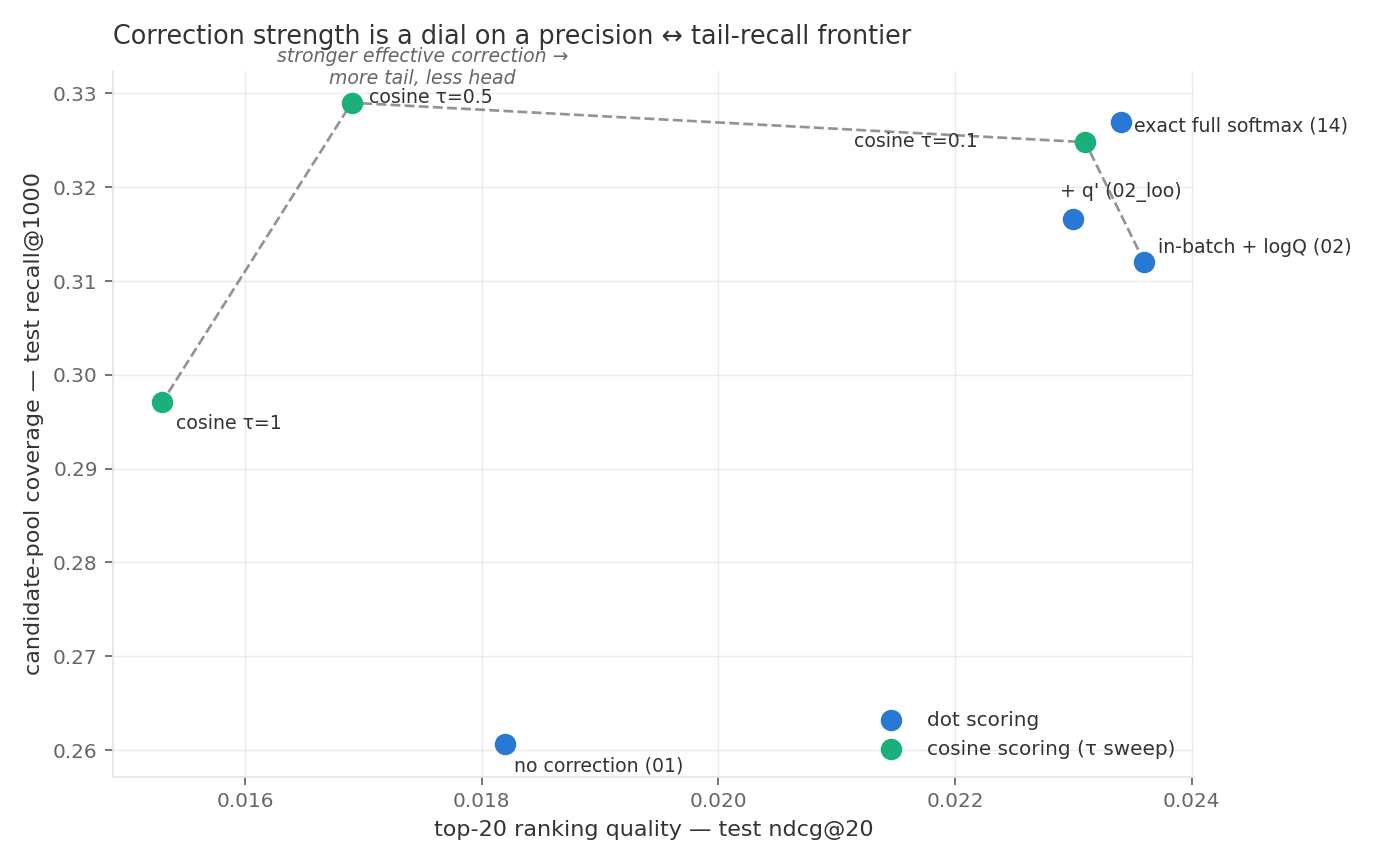
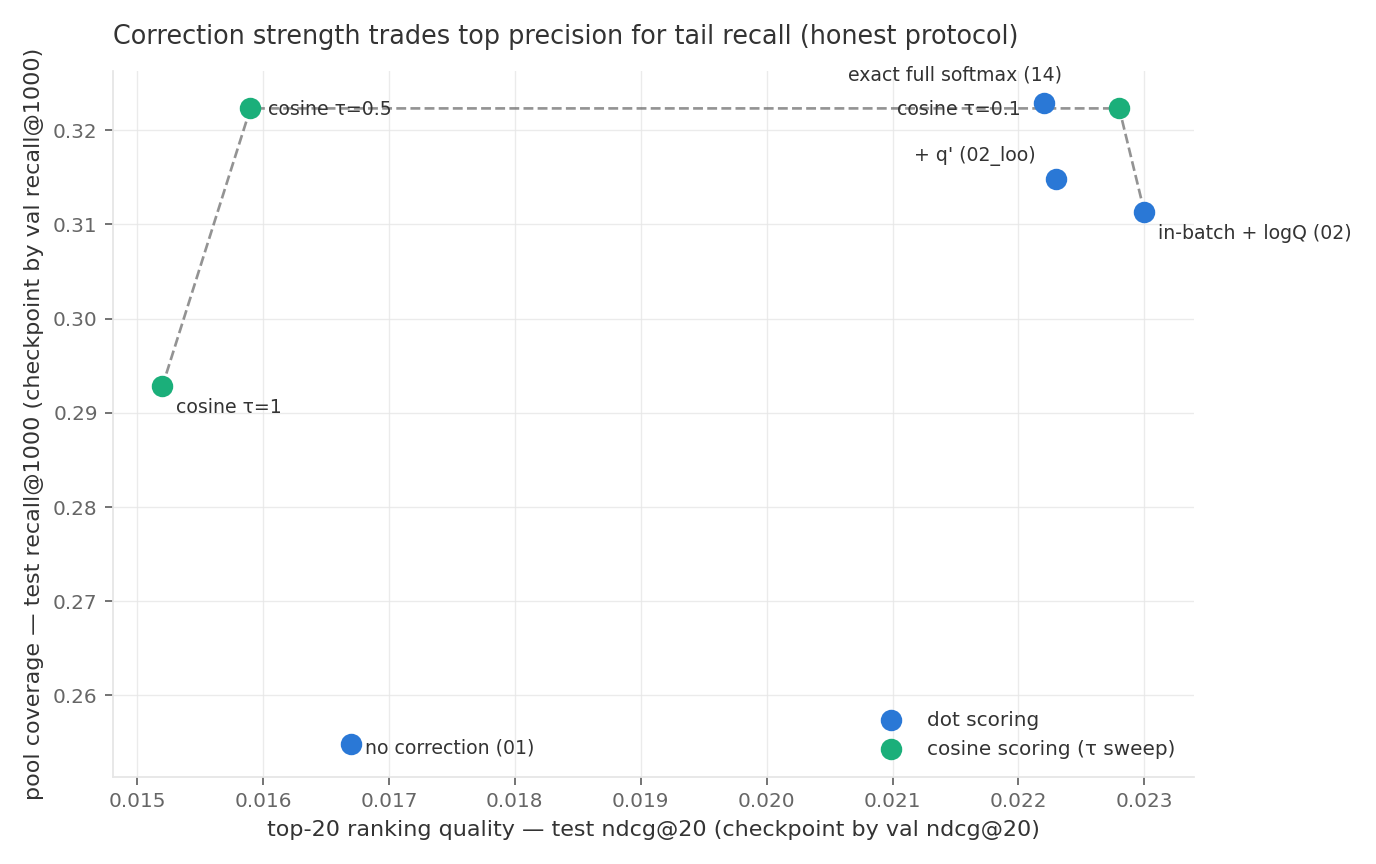
RESULTS v2: honest protocol (test at validation-best checkpoint) after external audit

diff --git a/RESULTS.md b/RESULTS.md
@@ -1,147 +1,161 @@
 # Experiment results: logQ correction study on MCLSR (Amazon Clothing)
 
-All numbers are best `ndcg@20` over training (validation / test users), single seed 42,
-same GPU node, full-catalog ranking, standard NDCG normalization (a ComiRec-style
-`comirec-ndcg` metric is available for comparison with the MCLSR paper's tables).
-Measured run-to-run noise floor: **±0.0005–0.001** — differences within it are ties.
-Configs live in `configs/train/grid/`, one question per config.
+**Protocol.** The checkpoint is selected by the *validation* metric and the test
+metric is reported **at that checkpoint** (metric-matched selection: ndcg tables
+select by validation ndcg@20, the recall@1000 table selects by validation
+recall@1000). Single seed 42, same GPU node, full-catalog ranking over disjoint
+test users (transductive user split 8:1:1, as in the MCLSR paper), standard NDCG
+normalization (`comirec-ndcg` is logged for comparison with the paper's tables).
+Run-to-run noise: **±0.001** ndcg@20 / **±0.005** recall@1000 — differences within
+it are ties. Single-seed numbers; the headline table will be re-run with 3 seeds.
+
+*(2026-07-14: all test columns recomputed under this protocol after an external
+audit correctly noted that the previous revision reported best-over-training test
+values; conclusions that changed are marked.)*
 
 ![Precision vs tail-recall frontier](assets/frontier.png)
 
-## 1. Retrieval loss (L_P): the correction works and is exact
+## 1. Retrieval loss (L_P): the correction works and matches the exact softmax
 
 | config | val | test | note |
 |---|---|---|---|
-| 01 in-batch, no correction | 0.0168 | 0.0182 | biased baseline |
-| **02 in-batch + logQ** | 0.0245 | **0.0236** | **+30%** |
-| 02 + leave-own-out q' | 0.0253 | 0.0230 | = 02 (q' is a ≤1.6e-3 row constant here) |
-| **14 exact full softmax** (no sampling) | 0.0246 | **0.0234** | gold standard |
+| 01 in-batch, no correction | 0.0168 | 0.0167 | biased baseline |
+| **02 in-batch + logQ** | 0.0245 | **0.0230** | **+38%** |
+| 02 + leave-own-out q' | 0.0253 | 0.0223 | = 02 (q' is a ≤1.6e-3 row constant here) |
+| **14 exact full softmax** (no sampling) | 0.0246 | 0.0222 | gold standard |
 
-**In-batch + logQ closes 100% of the gap to the exact full softmax** (0.0236 ≈ 0.0234).
+**In-batch + logQ is statistically indistinguishable from the exact full softmax**
+(0.0230 vs 0.0222, within noise) — the correction recovers everything sampling
+takes away at top-20.
 
 Same effect on a second architecture (SASRec, only λ changes):
 
 | config | val | test |
 |---|---|---|
-| SASRec BCE baseline | 0.0138 | 0.0123 |
+| SASRec BCE baseline | 0.0138 | 0.0108 |
 | SASRec in-batch, λ=0 | 0.0110 | 0.0085 |
-| **SASRec in-batch, λ=1** | **0.0208** | **0.0168** |
+| **SASRec in-batch, λ=1** | **0.0208** | **0.0155** |
 
-Cosine scoring on the retrieval loss (with logQ) degrades monotonically as the score
-scale shrinks relative to the fixed correction (dot → τ=0.1 → τ=0.5 → τ=1):
-test 0.0236 → 0.0231 → 0.0169 → 0.0153. Keep dot products on retrieval.
+Cosine scoring on the retrieval loss (with logQ) survives at τ=0.1 (test 0.0228 ≈
+dot) and collapses once the score scale drops further below the fixed correction:
+τ=0.5 → 0.0159, τ=1 → 0.0152. Keep dot products (or cosine with a small τ).
 
 ## 2. Interest-level contrastive L_IL: the correction hurts — anatomy of why
 
 Base = 03 (graph + L_IL + downstream logQ). λ sweep shows a dose response; every
-"distribution fix" changes nothing; removing the *margin* restores the dynamics.
+"distribution fix" changes nothing; removing the *margin* restores the training
+dynamics and the validation peak.
 
-| L_IL variant | val | test | peak step |
+| L_IL variant | val | test | val-best step |
 |---|---|---|---|
-| **03: no correction (λ=0)** | 0.0276 | **0.0279** | ~25k |
-| 04_l00 (fps_logq λ=0, masked) | 0.0276 | 0.0283 | ~25k |
-| 04 λ=0.25 | 0.0270 | 0.0265 | |
-| 04 λ=0.5 | 0.0267 | 0.0258 | |
-| 04 λ=1 (two runs) | 0.0264 / 0.0269 | 0.0265 / 0.0262 | **~57k** |
-| 04 λ=1 + leave-own-out q' | 0.0255 | 0.0251 | ~57k |
-| 04 λ=1, no masking | 0.0269 | 0.0263 | ~57k |
-| 04 λ=1 **centered** (margin removed) | 0.0286 | 0.0269 | **~25k** |
-| 04 λ=1 **positive also corrected** | 0.0289 | 0.0266 | ~25k |
-| 04 λ=1 + **cosine** similarity | 0.0295 | 0.0271 | ~13k |
+| **03: no correction (λ=0)** | 0.0276 | **0.0272** | ~28k |
+| 04_l00 (fps_logq λ=0, masked) | 0.0276 | 0.0275 | ~28k |
+| 04 λ=0.25 | 0.0270 | 0.0250 | ~28k |
+| 04 λ=0.5 | 0.0267 | 0.0257 | ~41k |
+| 04 λ=1 (two runs) | 0.0264 / 0.0269 | 0.0257 / 0.0262 | **~57–59k** |
+| 04 λ=1 + leave-own-out q' | 0.0255 | 0.0242 | ~55k |
+| 04 λ=1, no masking | 0.0269 | 0.0251 | ~53k |
+| 04 λ=1 **centered** (margin removed) | **0.0286** | 0.0259 | **~26k** |
+| 04 λ=1 **positive also corrected** | **0.0289** | 0.0260 | ~25k |
+| 04 λ=1 + **cosine** similarity | **0.0295** | 0.0267 | ~13k |
 
 ![L_IL anatomy](assets/lil_anatomy.png)
 
 Mechanism: with the negatives-only convention the common part of the correction
 (~5.6 nats, vs ±0.4 of actual per-user reweighting) becomes an uncancelled margin.
 Under unbounded dot scores the model fights it by inflating norms → slow rise, late
-peak, −0.002 test. Removing the margin (centering ≡ correcting the positive) or
-bounding the scores (cosine) each independently restores the dynamics — but never
-beats "no correction": **alignment losses have no corpus-target distribution to
-debias.**
+peak, quality loss. Removing the margin (centering ≡ correcting the positive) or
+bounding the scores (cosine) each independently restores the early peak and lifts
+validation *above* the λ=0 base (0.0286–0.0295 vs 0.0276), while single-seed test
+values recover only partially (0.0259–0.0267 vs 0.0272) — seeds needed to settle
+the test-side comparison. Either way, no corrected variant beats "no correction":
+**alignment losses have no corpus-target distribution to debias.**
 
-Sanity variants: B×B cross-view-only scheme (one negative per user) = 2B×2B within
-noise (0.0268/0.0283 vs 0.0279/0.0276); shared L_IL projection head (paper eq. 7)
-= separate heads within noise (0.0271 vs 0.0279); cosine similarity (paper eq. 8)
-= dot on quality, 2× faster convergence (peak ~12k vs ~25k).
+Sanity variants: shared L_IL projection head (paper eq. 7) — equal on validation
+(0.0279 vs 0.0276), lower on single-seed test (0.0255 vs 0.0272): unresolved at
+one seed. B×B cross-view scheme: **inconclusive** — the current B×B run also
+doubled the effective L_IL weight (the symmetric loss divides by 2), so scheme and
+weight are confounded; a weight-matched rerun is queued. Cosine similarity
+(paper eq. 8) = dot on quality (0.0267–0.0275), 2× faster convergence.
 
-## 3. Feature-level contrastive L_UC / L_IC: nothing to correct — proven directly
+## 3. Feature-level contrastive L_UC / L_IC
 
 Isolated pairs (downstream logQ + one feature branch), plus an **exact full-softmax
 anchor**: batch anchors scored against ALL users/items (no sampling at all).
 
 | variant | val | test |
 |---|---|---|
-| 09 L_IC λ=0 | 0.0244 | 0.0229 |
-| 10 L_IC λ=1 | 0.0243 | 0.0239 |
-| 09/10 under cosine | 0.0235 / 0.0243 | 0.0223 / 0.0233 |
-| **16 L_IC exact full softmax** | 0.0239 | 0.0233 |
-| 11 L_UC λ=0 | 0.0243 | 0.0223 |
-| 12 L_UC λ=1 + q' | 0.0242 | 0.0225 |
-| 13 L_UC λ=1, no masking | 0.0230 | 0.0228 |
-| **15 L_UC exact full softmax** | 0.0236 | 0.0226 |
+| 09 L_IC λ=0 | 0.0244 | 0.0216 |
+| 10 L_IC λ=1 | 0.0243 | 0.0231 |
+| 09/10 under cosine | 0.0235 / 0.0243 | 0.0220 / 0.0220 |
+| **16 L_IC exact full softmax** | 0.0239 | 0.0224 |
+| 11 L_UC λ=0 | 0.0243 | 0.0211 |
+| 12 L_UC λ=1 + q' | 0.0242 | 0.0224 |
+| 13 L_UC λ=1, no masking | 0.0230 | 0.0216 |
+| **15 L_UC exact full softmax** | 0.0236 | 0.0212 |
 
-**Even the exact full softmax matches in-batch** on both feature branches:
-in-batch sampling loses nothing here, so there is nothing for a correction to fix.
+The exact full softmax matches the in-batch versions on both branches — in-batch
+sampling loses nothing here. Under the honest protocol logQ shows a small
+*positive* test effect on both branches (+0.0013–0.0015, ≈1.5 noise units,
+single seed): harmless-to-mildly-useful, consistent with the tail-recall gains in
+section 6.
 
 ## 4. Full model
 
 | config | val | test |
 |---|---|---|
-| 05 graph + all contrastive, no logQ on them | 0.0273 | 0.0276 |
-| 06 + logQ on L_UC/L_IC | 0.0288 | 0.0258 |
-| 07 + logQ on everything | 0.0276 | 0.0248 |
+| 05 graph + all contrastive, no logQ on them | 0.0273 | 0.0266 |
+| 06 + logQ on L_UC/L_IC | 0.0288 | 0.0257 |
+| 07 + logQ on everything | 0.0276 | 0.0246 |
 
-Best overall recipe remains **03: graph + logQ on the retrieval loss only** (0.0279).
+Best overall recipe remains the **03 family: graph + logQ on the retrieval loss
+only** (test 0.0272; the cosine variant 0.0275 with 2× faster convergence).
 
 ## 5. Reproducibility
 
 Same node + same seed reproduces to 4 decimals (03 rerun exact). Concurrent twins
 with `deterministic: true` still diverge from step ~130 (graph CUDA ops have no
 deterministic implementation) up to ~0.001 ndcg@20 — hence the noise floor above,
-paired arms always run on one node, and final tables should use 3 seeds.
+paired arms always run on one node, and final tables will use 3 seeds.
 
 ## The recipe
 
 | loss type | correction |
 |---|---|
 | retrieval (sampled/in-batch softmax over a catalog) | logQ on **negatives only**; leave-own-out q' only matters when one id holds a visible share of the data |
-| contrastive alignment (SimCLR-style views) | **no correction**; if one is ever applied, use a margin-free form (centered / positive-corrected) and cosine scoring |
+| contrastive alignment (SimCLR-style views) | **no correction needed for top-k quality**; a margin-free form (centered / positive-corrected) or cosine scoring avoids the harm; small tail-recall gains are possible (§6) |
 
 ## 6. The candidate-generation view: recall@1000
 
-Deep-recall (does the relevant item make it into a wide candidate pool) reshuffles
-the picture in instructive ways. Noise floor at this scale: ~±0.004 (the identical
-June pair spread). Best test `recall@1000`:
+Checkpoints here are selected by **validation recall@1000** (the deployment-relevant
+choice for a candidate generator). Test recall@1000 at that checkpoint:
 
-| retrieval variant | recall@1000 |
+| retrieval variant | test recall@1000 |
 |---|---|
-| 01 in-batch, no correction | 0.2606 |
-| 02 in-batch + logQ | 0.3120 (+20%) |
-| 02 + q' | 0.3166 |
-| **14 exact full softmax** | 0.3269 |
-| 02 cosine τ=0.1 | 0.3248 |
-| **02 cosine τ=0.5** | **0.3290** |
-| 02 cosine τ=1 | 0.2971 |
+| 01 in-batch, no correction | 0.2548 |
+| 02 in-batch + logQ | 0.3113 (+22%) |
+| 02 + q' | 0.3148 |
+| **14 exact full softmax** | **0.3229** |
+| 02 cosine τ=0.1 | 0.3223 |
+| 02 cosine τ=0.5 | 0.3223 |
+| 02 cosine τ=1 | 0.2928 |
 
-| graph / contrastive variant | recall@1000 |
+| graph / contrastive variant | test recall@1000 |
 |---|---|
-| 03 (logQ downstream only) | 0.3611 |
-| 04 λ=1 on L_IL (two runs) | 0.3534 / 0.3494 |
-| 04 centered / positive-corrected | 0.3575 / 0.3600 |
-| 03 shared projector | 0.3659 |
+| 03 (logQ downstream only) | 0.3583 |
+| 04 λ=1 on L_IL (two runs) | 0.3520 / 0.3467 |
+| 04 centered / positive-corrected | 0.3568 / 0.3580 |
+| 03 shared projector | 0.3626 |
 | 05 full model, no logQ on contrastive | 0.3612 |
-| 06 + logQ on L_UC/L_IC | 0.3643 / 0.3646 |
-| 09 → 10 (L_IC λ=0 → λ=1) | 0.3168 → **0.3263** |
+| 06 + logQ on L_UC/L_IC | 0.3618 |
+| 09 → 10 (L_IC λ=0 → λ=1) | 0.3076 → **0.3167** |
 
 Takeaways:
 - the core story holds at @1000: the correction is the single biggest win, and
   logQ on L_IL still does not beat no-correction;
-- unlike ndcg@20 (where in-batch+logQ = exact softmax), at recall@1000 the exact
-  full softmax keeps a ~5% edge over in-batch+logQ — the correction closes most
-  but not all of the tail gap;
-- **stronger effective correction buys tail recall at the cost of top precision**:
-  cosine τ=0.5 is the champion candidate generator (0.3290, above even the exact
-  softmax) while being the worst top-20 ranker (0.0169); logQ on L_IC helps the
-  tail (+0.0095) while being neutral at @20. Correction strength is a dial on a
-  precision@20 ↔ recall@1000 frontier — pick the operating point per application
-  stage (ranking vs candidate generation).
+- at recall@1000 the exact full softmax keeps a small edge over in-batch+logQ
+  (0.3229 vs 0.3113, ~+3.7%, above noise) — the correction closes most but not
+  all of the tail gap; cosine retrieval variants (τ=0.1/0.5) reach the same
+  0.322 level while costing top-20 precision (τ=0.5 pays 0.0159 at @20);
+- logQ on L_IC buys tail recall (+0.009) at no top-20 cost — on contrastive
+  losses the correction acts as a mild tail/head dial rather than a pure harm.
